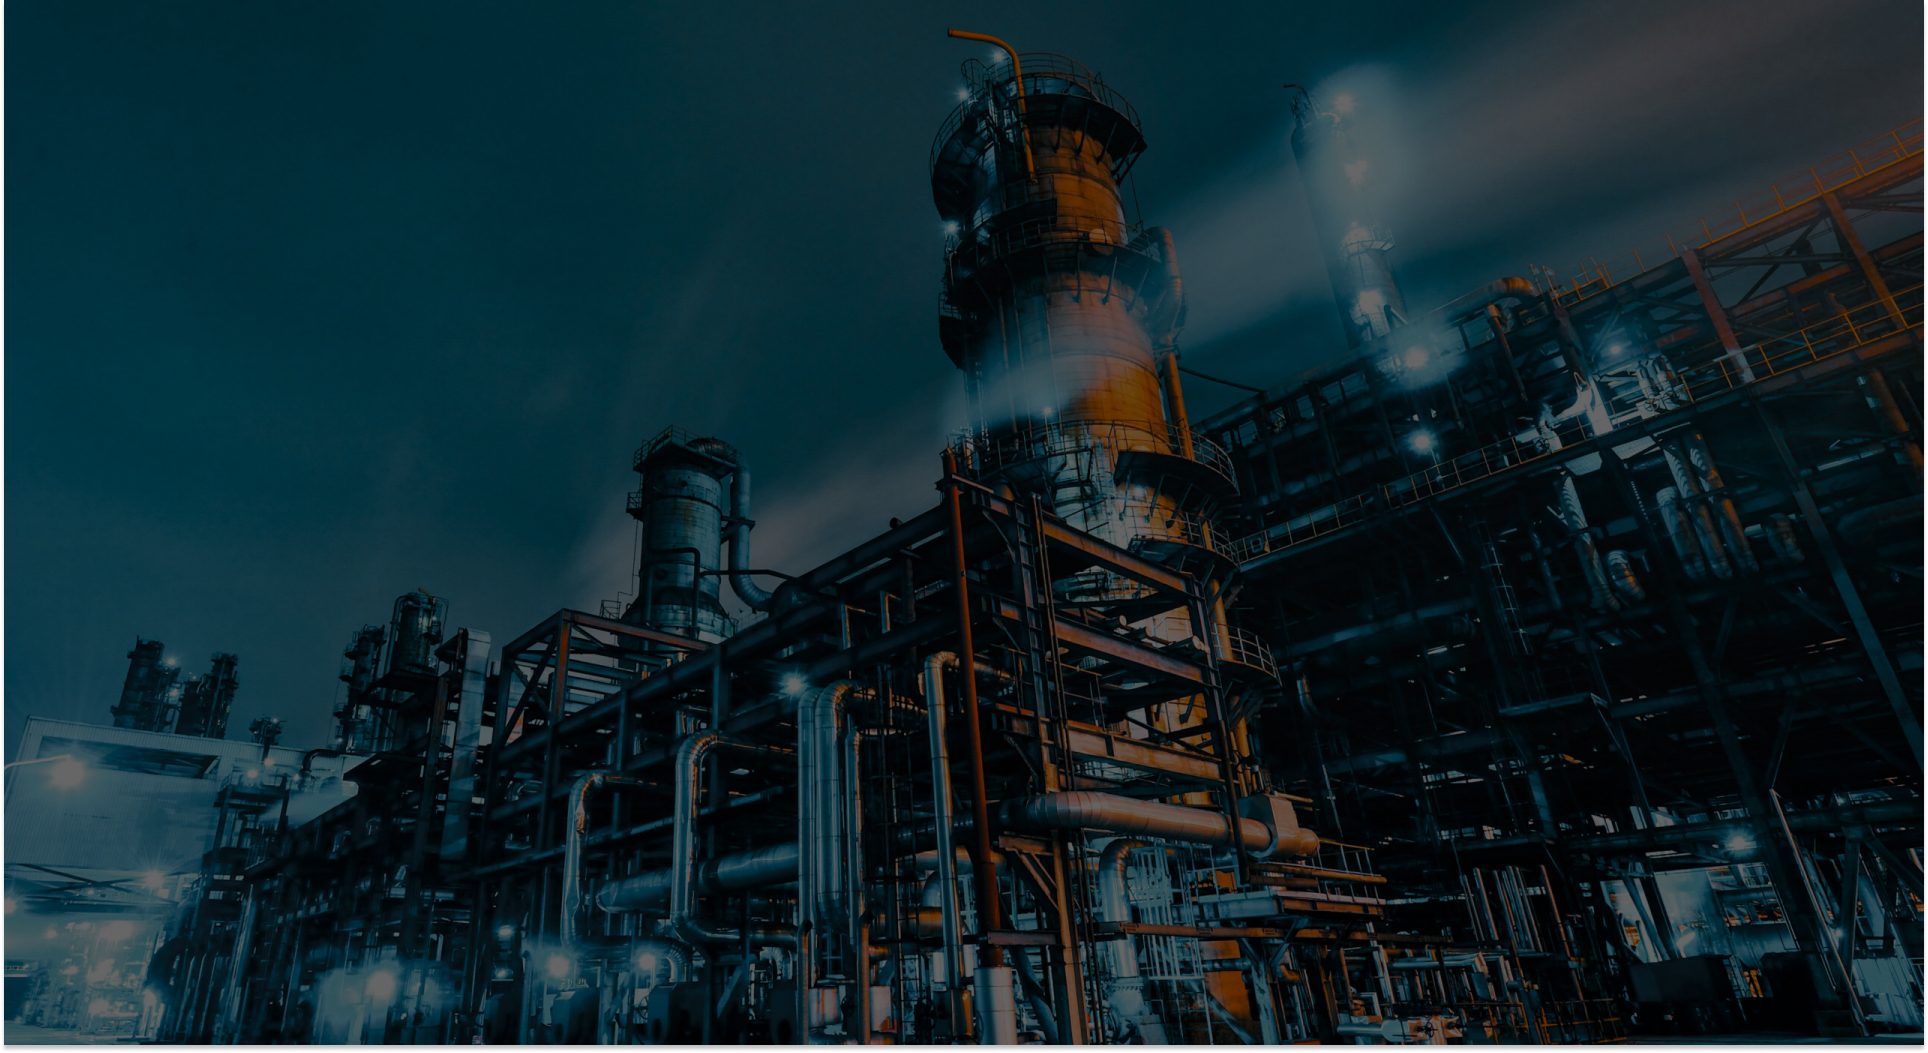
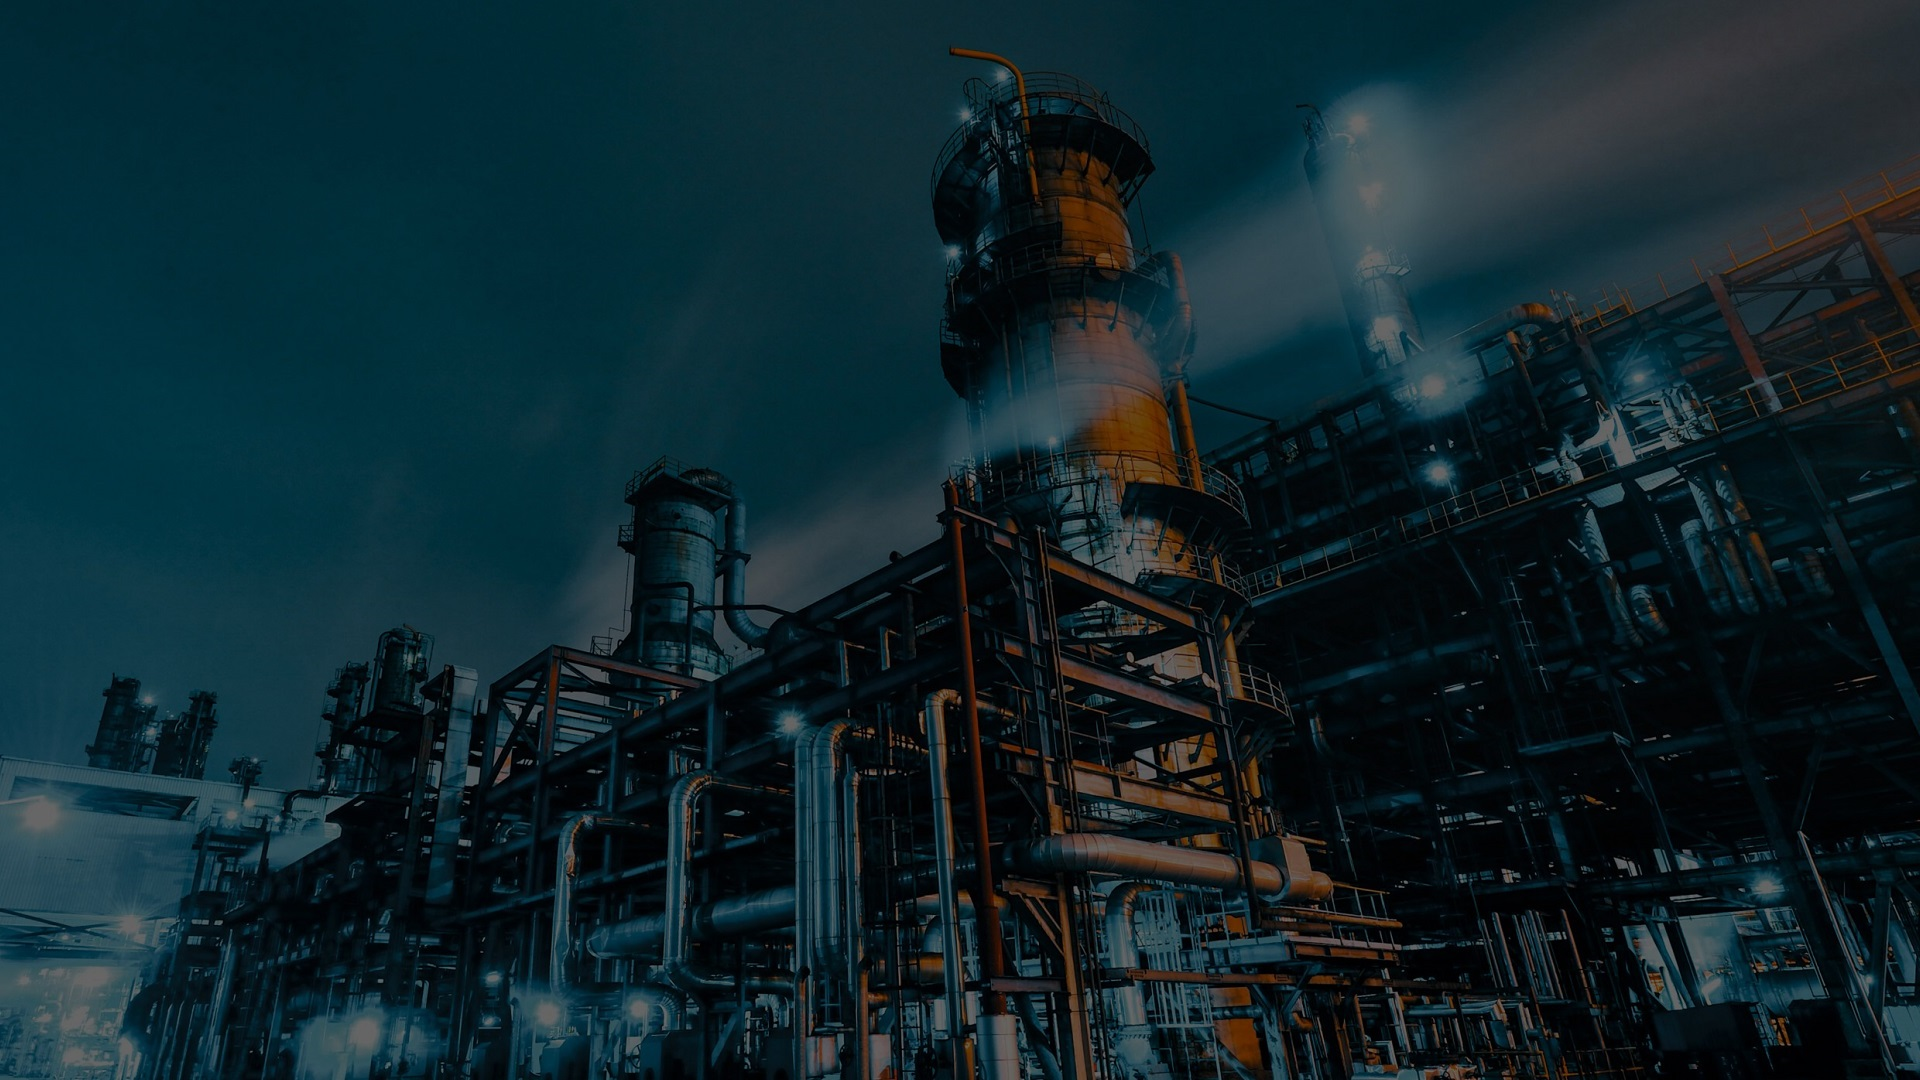
bg white borders removed

diff --git a/pages/page/technology/index.js b/pages/page/technology/index.js
@@ -6,8 +6,6 @@ import PageWidth from "../../../components/Width/PageWidth"
 import TextContainer from "./components/TextContainer"
 import { Image, Responsive } from "./components/StyleImage"
 
-const bg = "/background/blank.png"
-
 const Buy = () => {
   useEffect(() => {
     AOS.init()
@@ -16,15 +14,15 @@ const Buy = () => {
 
   return (
     <PageLayout height="100vh">
-      <PageWidth scale={"90%"} width="1500px">
+      <PageWidth scale={"90%"} width="1500px" position="relative">
         <div
           data-aos="slide-right"
+          data-aos-anchor-placement="center-center"
           data-aos-duration="500"
           style={{
             position: "absolute",
             left: "0",
             bottom: "0",
-            overflowY: "hidden",
           }}
         >
           <Image>
@@ -32,7 +30,12 @@ const Buy = () => {
               loading="lazy"
               src="/content/tech.gif"
               alt=""
-              style={{ width: "100%", height: "100%" }}
+              style={{
+                position: "absolute",
+                top: "30vh",
+                width: "100%",
+                height: "100%",
+              }}
             />
           </Image>
         </div>
@@ -41,13 +44,23 @@ const Buy = () => {
             loading="lazy"
             src="/background/Line.png"
             alt=""
-            style={{ position: "absolute", width: "100%", height: "100%" }}
+            style={{ position: "absolute", width: "100%", height: "10rem" }}
           />
-          <div data-aos="slide-left" data-aos-duration="500">
+          <div
+            data-aos="slide-left"
+            data-aos-anchor-placement="bottom-bottom"
+            data-aos-duration="500"
+          >
             <Responsive>
               <TextContainer />
             </Responsive>
           </div>
+          <img
+            loading="lazy"
+            src="/background/Line.png"
+            alt=""
+            style={{ position: "absolute", width: "100%", height: "10rem" }}
+          />
         </div>
       </PageWidth>
     </PageLayout>

diff --git a/pages/page/technology/components/TextContainer.js b/pages/page/technology/components/TextContainer.js
@@ -11,6 +11,9 @@ const StyleTextContainer = styled.div`
   justify-content: flex-end;
   flex-direction: column;
   // background: red;
+
+  position: absolute;
+  bottom: 0;
   width: 50rem;
   margin: -6rem 0 4rem 0;
 `
